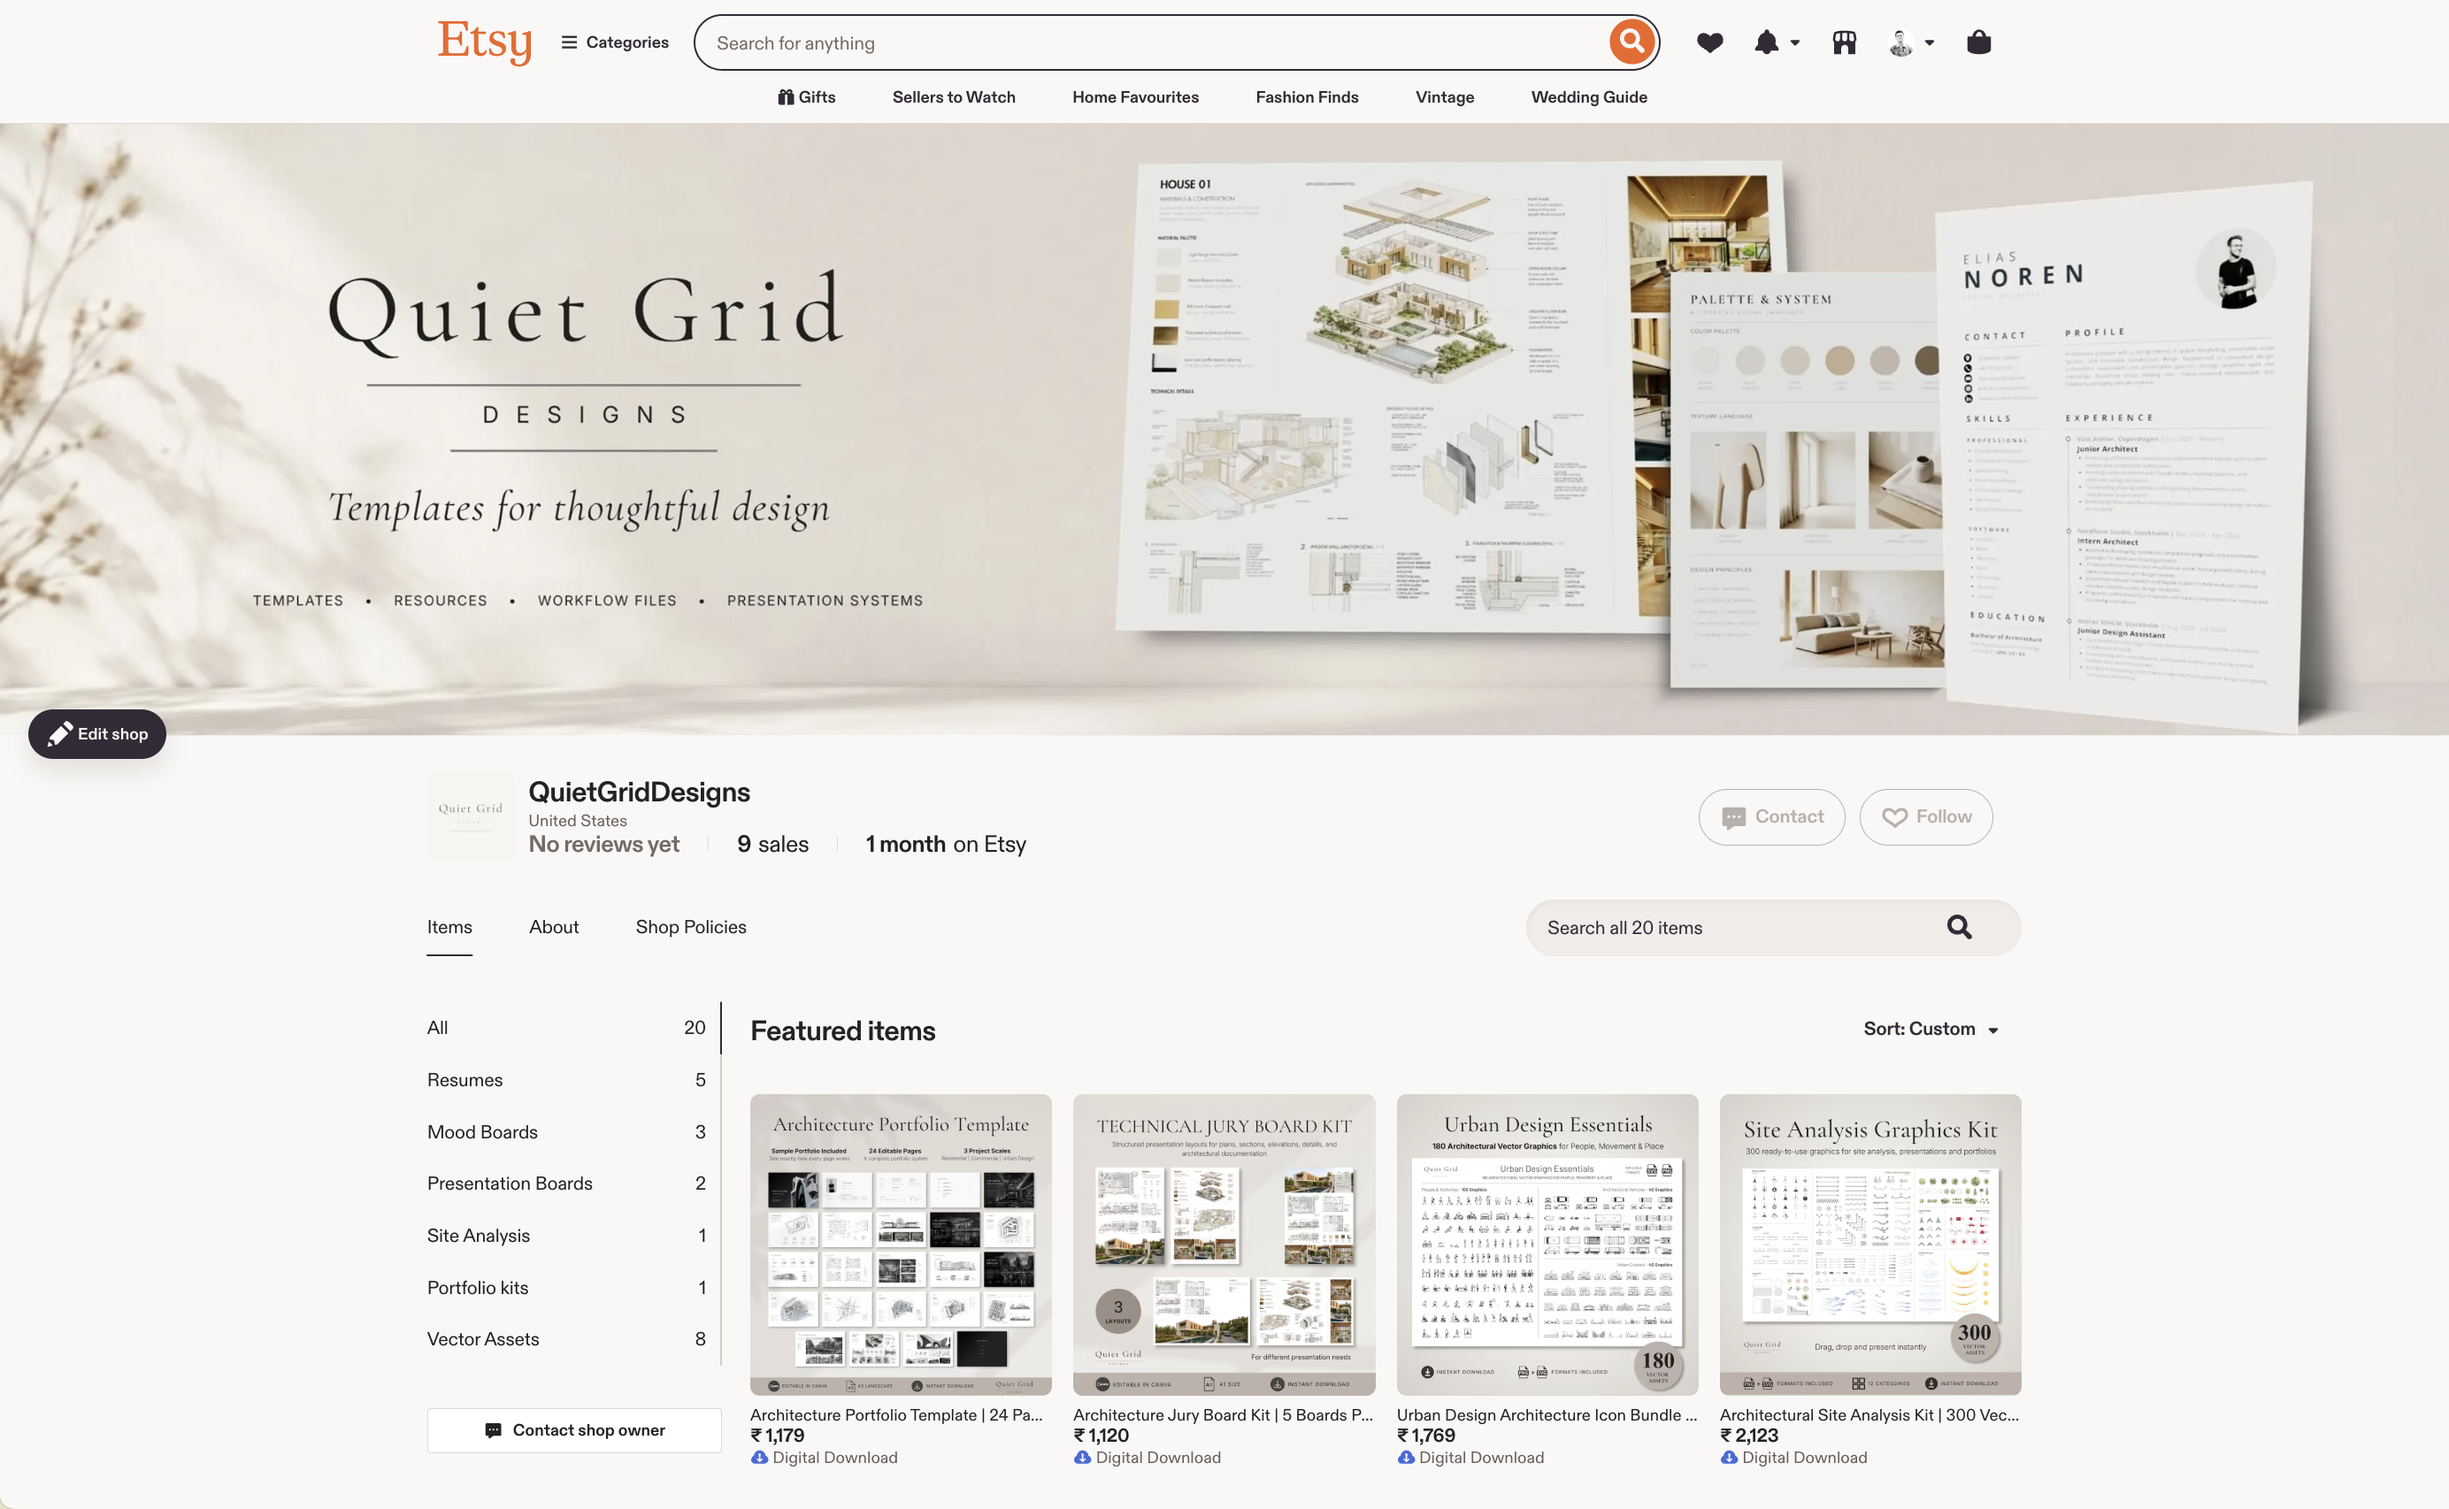
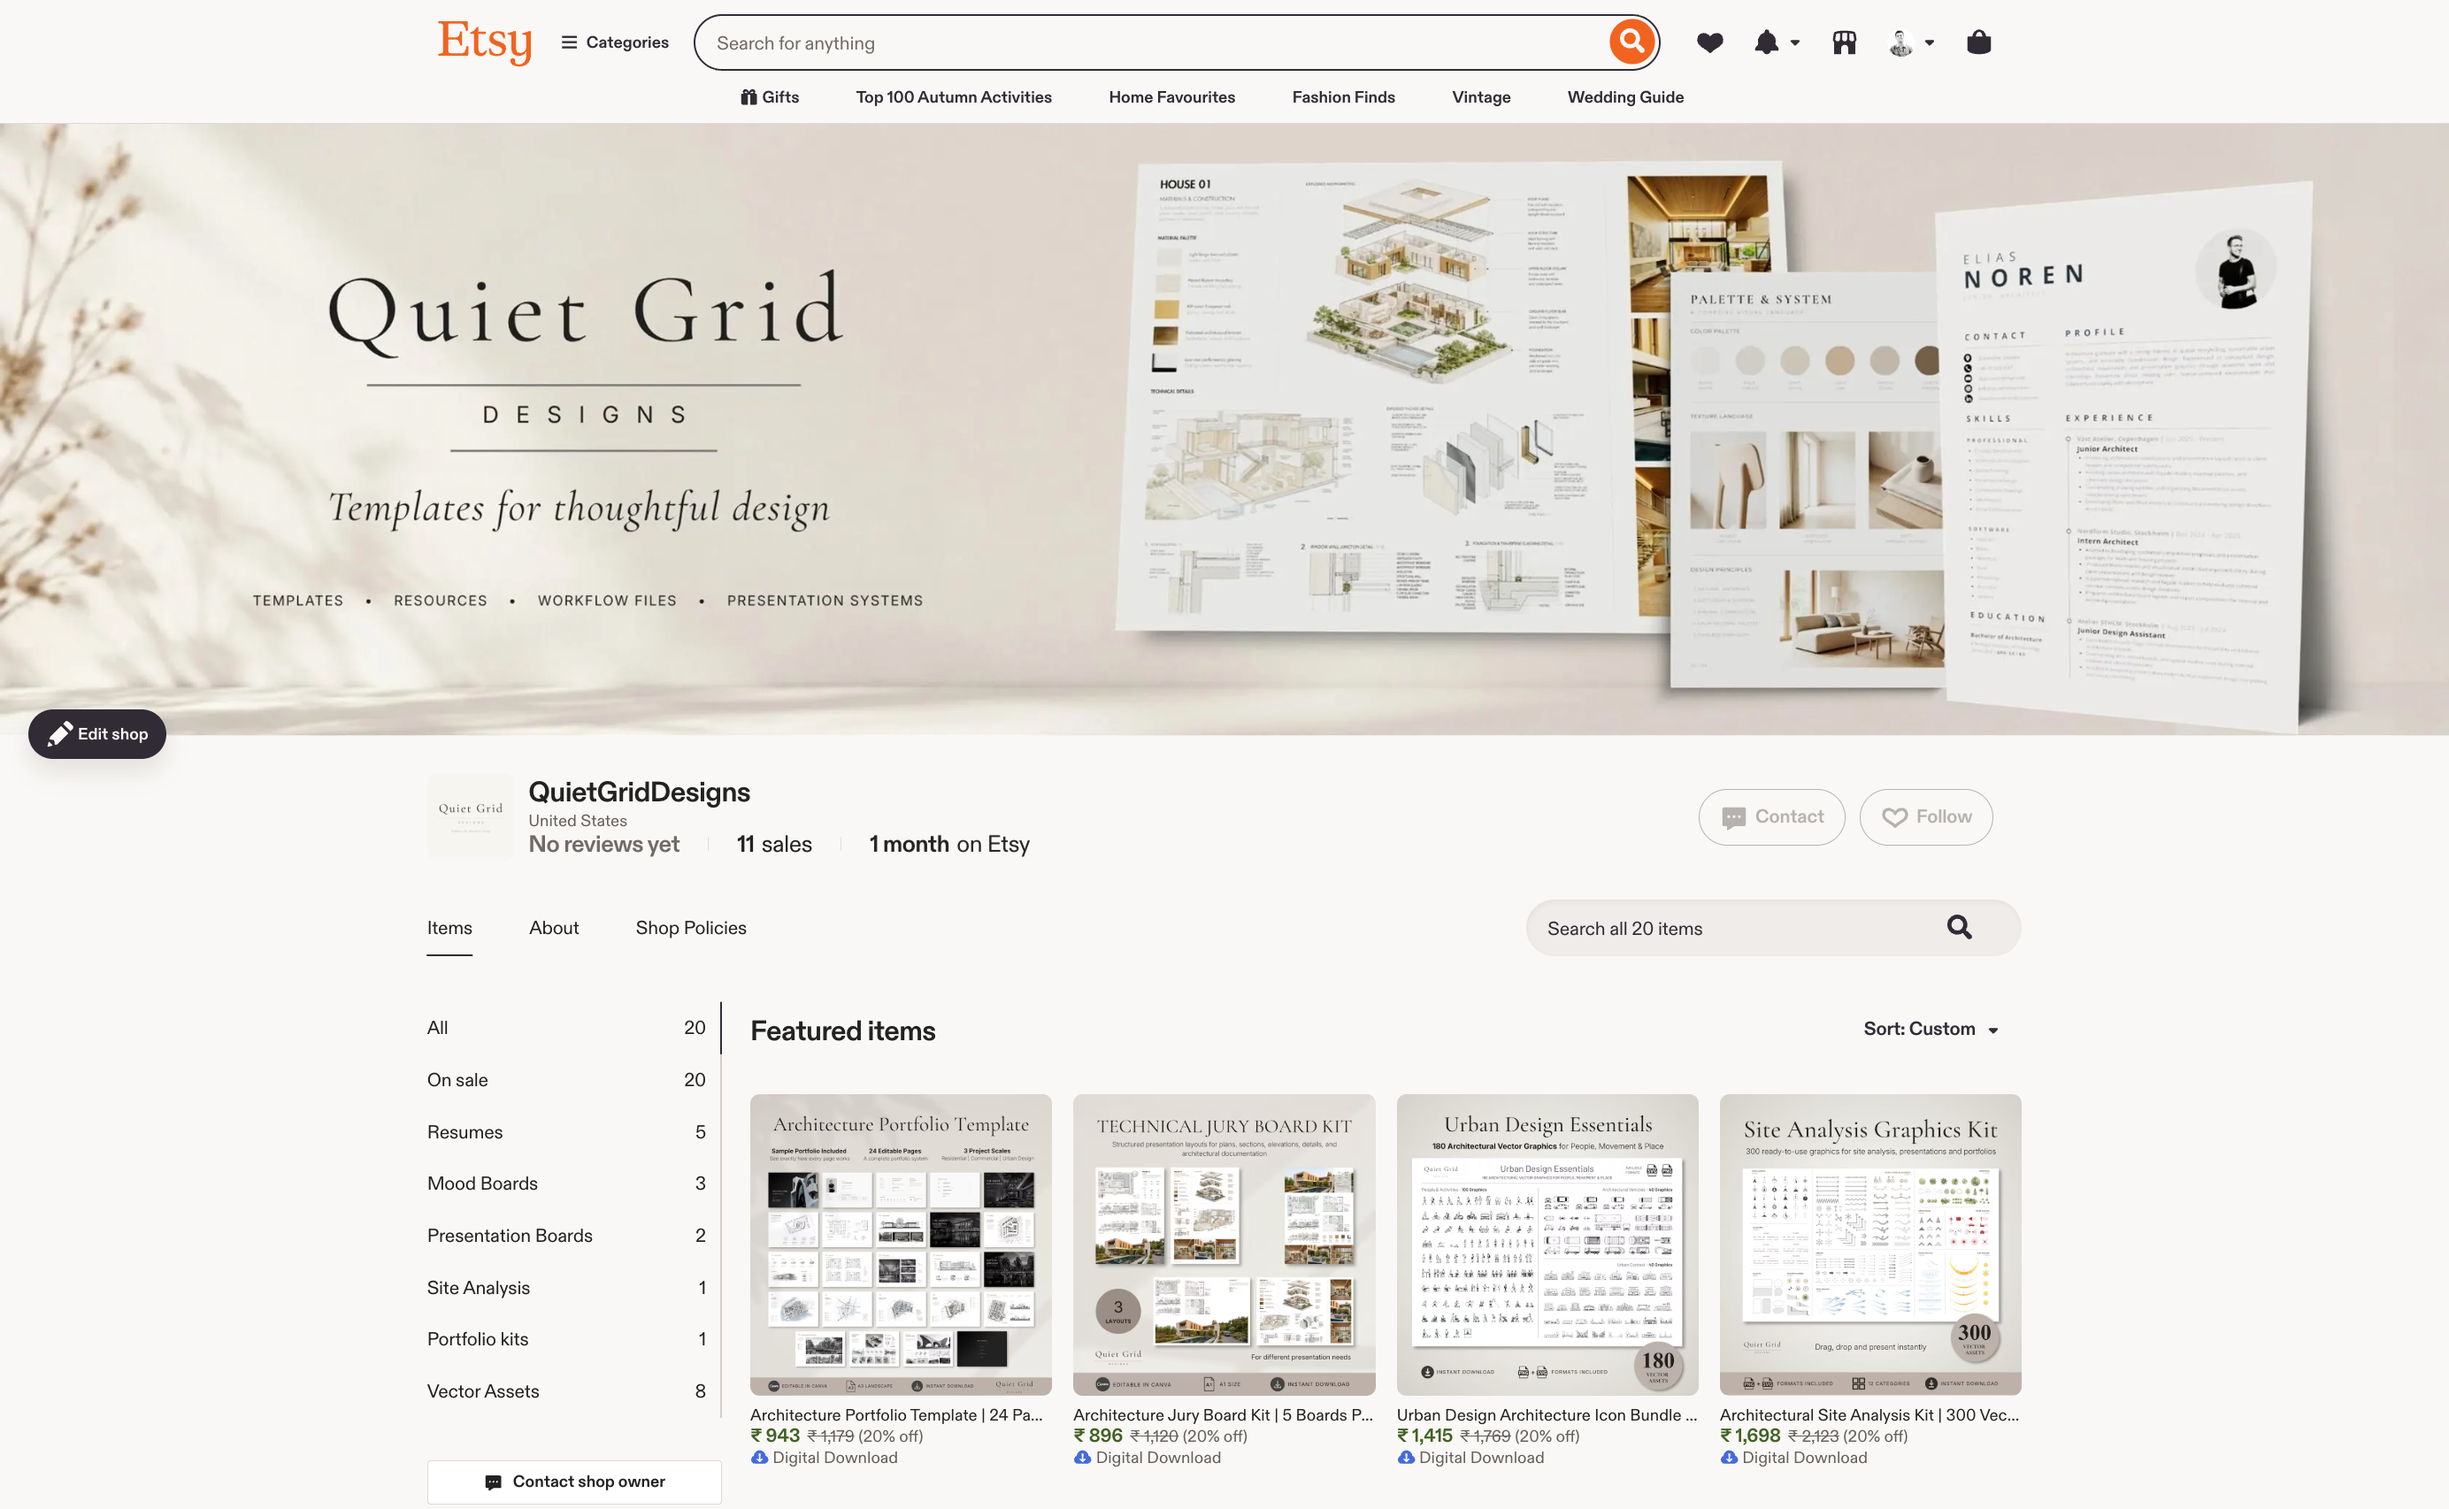
Update Quiet Grid Designs case study

diff --git a/app/work/quiet-grid/page.tsx b/app/work/quiet-grid/page.tsx
@@ -11,18 +11,29 @@ export const metadata: Metadata = {
 
 const proof = [
   ['20', 'products'],
-  ['9', 'orders'],
-  ['₹6.6K', 'early revenue'],
+  ['11', 'orders'],
+  ['₹9.8K', 'early revenue'],
   ['0', 'Etsy Ads'],
 ];
 
-const results = [
-  ['268', 'visits'],
-  ['9', 'orders'],
-  ['3.4%', 'conversion'],
-  ['₹6,579', 'revenue'],
-  ['20', 'products live'],
+const primaryResults = [
+  ['373', 'visits'],
+  ['496', 'listing views'],
+  ['11', 'orders'],
+  ['₹9,817', 'revenue'],
+  ['2.9%', 'conversion'],
+];
+
+const supportingResults = [
+  ['35', 'item favourites'],
   ['0', 'Etsy Ads'],
+];
+
+const researchDecisions = [
+  'Protect validated products before changing everything.',
+  'Let real customer behaviour carry more weight than trend-chasing.',
+  'Broaden Quiet Grid carefully from architecture resources toward useful presentation and handoff resources for designers.',
+  'Test one direction at a time instead of launching many speculative products.',
 ];
 
 const closingSignals = ['20 products shipped', 'Built end-to-end', 'Still building.'];
@@ -146,7 +157,7 @@ export default function QuietGridCaseStudy() {
                 src="/quiet-grid/storefront-full.png"
                 alt="Full Quiet Grid Designs Etsy storefront showing the breadth of its 20-product catalogue"
                 width={2768}
-                height={4777}
+                height={5210}
                 sizes="(max-width: 700px) calc(100vw - 36px), 64vw"
               />
             </div>
@@ -219,8 +230,8 @@ export default function QuietGridCaseStudy() {
               alt="Etsy product-level performance showing views, favourites, orders and revenue by listing"
               caption="Product-level behaviour provided directional evidence for the next catalogue bets."
               className={styles.statsFigure}
-              width={2346}
-              height={1168}
+              width={2336}
+              height={1725}
             />
             <aside className={styles.learningCallout}>
               <span>What I learned</span>
@@ -245,21 +256,24 @@ export default function QuietGridCaseStudy() {
           <div className={styles.resultsComposition}>
             <div className={styles.resultsInterpretation}>
               <p className={styles.resultsQualifier}>Early traction · first month</p>
-              <dl className={styles.resultsStack} aria-label="Quiet Grid results by September 4">
-                {results.map(([value, label]) => <div key={label}><dd>{value}</dd><dt>{label}</dt></div>)}
+              <dl className={styles.resultsStack} aria-label="Quiet Grid primary product funnel through September 11">
+                {primaryResults.map(([value, label]) => <div key={label}><dd>{value}</dd><dt>{label}</dt></div>)}
+              </dl>
+              <dl className={styles.resultsSupporting} aria-label="Quiet Grid supporting signals through September 11">
+                {supportingResults.map(([value, label]) => <div key={label}><dd>{value}</dd><dt>{label}</dt></div>)}
               </dl>
             </div>
             <figure className={`${styles.figure} ${styles.dashboardFigure}`}>
               <div className={styles.dashboardFrame}>
                 <Image
                   src="/quiet-grid/shop-dashboard.png"
-                  alt="Etsy Shop Manager analytics showing visits, orders, conversion, revenue and leading listing performance"
+                  alt="Etsy Shop Manager analytics showing visits, orders, conversion, revenue and shopper behaviour"
                   width={2768}
-                  height={6133}
+                  height={4133}
                   sizes="(max-width: 700px) calc(100vw - 36px), 68vw"
                 />
               </div>
-              <figcaption>Etsy Shop Manager, August 6–September 4. Actual shop performance; 0 Etsy Ads during this period.</figcaption>
+              <figcaption>Etsy Shop Manager, August 12–September 11. Actual shop performance; 0 Etsy Ads during this period.</figcaption>
             </figure>
           </div>
           <div className={styles.resultsCopy}>
@@ -268,8 +282,23 @@ export default function QuietGridCaseStudy() {
           </div>
         </section>
 
+        <section className={`${styles.textSection} ${styles.twoColumn} shell`}>
+          <div className={styles.sectionMarker}>09 / Evidence-led product strategy</div>
+          <div className={styles.readingColumn}>
+            <p className={styles.researchSequence}>Build → Sell → Observe → Research → Decide</p>
+            <h2>The business became the research lab</h2>
+            <p>Once real buyers started behaving differently across products, I stopped treating the catalogue as a collection of things I had made and started treating it as evidence. I combined transaction and listing-performance data with AI-assisted competitor and market research to investigate pricing, demand, positioning and adjacent opportunities at greater scale.</p>
+            <p>The goal was not more AI-generated ideas, but better decisions: separate observed evidence from inference and hypotheses, protect what was already working, and prioritise the next product based on real signals rather than instinct alone.</p>
+            <ol className={styles.researchDecisions}>
+              {researchDecisions.map((decision, index) => (
+                <li key={decision}><span>{String(index + 1).padStart(2, '0')}</span><p>{decision}</p></li>
+              ))}
+            </ol>
+          </div>
+        </section>
+
         <section className={`${styles.closingSection} shell`}>
-          <div className={styles.sectionMarker}>09 / What changed</div>
+          <div className={styles.sectionMarker}>10 / What changed</div>
           <div className={styles.closingCopy}>
             <h2>A real feedback loop</h2>
             <p>Building Quiet Grid made the feedback loop real. Research could suggest an opportunity, but quality determined what shipped. Small behavioural signals could shape the roadmap without pretending weak evidence was certainty.</p>

diff --git a/app/work/quiet-grid/case-study.module.css b/app/work/quiet-grid/case-study.module.css
@@ -490,16 +490,56 @@
 }
 
 .resultsStack > div {
-  padding: clamp(20px, 2.4vw, 34px) 0;
+  display: grid;
+  grid-template-columns: minmax(0, 1fr) auto;
+  gap: 18px;
+  align-items: baseline;
+  padding: clamp(16px, 1.7vw, 24px) 0;
   border-bottom: 1px solid var(--line);
 }
 
 .resultsStack dd {
-  margin-bottom: 6px;
-  font-size: clamp(2.75rem, 4.6vw, 5rem);
+  margin: 0;
+  font-size: clamp(2.4rem, 3.7vw, 4.15rem);
   font-weight: 500;
   letter-spacing: -.055em;
   line-height: .9;
+}
+
+.resultsStack dt {
+  text-align: right;
+}
+
+.resultsSupporting {
+  display: grid;
+  grid-template-columns: repeat(2, minmax(0, 1fr));
+  margin: 34px 0 0;
+  padding: 0;
+  border-top: 1px solid var(--ink);
+  border-bottom: 1px solid var(--line);
+}
+
+.resultsSupporting > div {
+  padding: 18px 14px 19px 0;
+}
+
+.resultsSupporting > div + div {
+  padding-left: 14px;
+  border-left: 1px solid var(--line);
+}
+
+.resultsSupporting dd {
+  margin: 0 0 5px;
+  font-size: clamp(1.8rem, 2.4vw, 2.5rem);
+  font-weight: 600;
+  letter-spacing: -.045em;
+  line-height: 1;
+}
+
+.resultsSupporting dt {
+  color: var(--muted);
+  font-size: .76rem;
+  line-height: 1.4;
 }
 
 .dashboardFigure {
@@ -507,17 +547,14 @@
 }
 
 .dashboardFrame {
-  height: clamp(760px, 72vw, 1040px);
-  overflow: hidden;
   background: white;
   border: 1px solid var(--line);
 }
 
 .dashboardFrame img {
+  display: block;
   width: 100%;
-  height: 100%;
-  object-fit: cover;
-  object-position: top center;
+  height: auto;
   background: white;
   border: 0;
 }
@@ -532,6 +569,43 @@
   font-size: clamp(1.32rem, 1.65vw, 1.65rem);
   line-height: 1.5;
   letter-spacing: -.02em;
+}
+
+.readingColumn .researchSequence {
+  margin: 0 0 38px;
+  color: var(--blue);
+  font-size: .79rem;
+  font-weight: 700;
+  letter-spacing: .08em;
+  line-height: 1.6;
+  text-transform: uppercase;
+}
+
+.researchDecisions {
+  margin: clamp(48px, 6vw, 76px) 0 0;
+  padding: 0;
+  border-top: 1px solid var(--ink);
+  list-style: none;
+}
+
+.researchDecisions li {
+  display: grid;
+  grid-template-columns: 38px minmax(0, 1fr);
+  gap: 18px;
+  padding: 18px 0;
+  border-bottom: 1px solid var(--line);
+}
+
+.researchDecisions li > span {
+  padding-top: 3px;
+  color: var(--blue);
+  font-size: .76rem;
+  font-weight: 700;
+  letter-spacing: .07em;
+}
+
+.researchDecisions li > p {
+  margin: 0;
 }
 
 .closingSection {
@@ -714,12 +788,10 @@
   .resultsTitle { margin: 0 0 64px; }
   .resultsInterpretation { position: static; }
   .resultsQualifier { margin-bottom: 28px; }
-  .resultsStack { display: grid; grid-template-columns: repeat(2, 1fr); }
-  .resultsStack > div { padding: 22px 10px 22px 0; }
-  .resultsStack > div:nth-child(even) { padding-left: 14px; border-left: 1px solid var(--line); }
+  .resultsStack > div { padding: 18px 0; }
   .resultsStack dd { font-size: clamp(2.25rem, 11vw, 3.3rem); }
+  .resultsSupporting { margin-top: 30px; }
   .dashboardFigure { margin-top: 66px; }
-  .dashboardFrame { height: 620px; }
   .resultsCopy { margin-top: 68px; }
   .closingCopy { margin-top: 0; }
   .finalQuote { margin: 78px 0 86px; font-size: clamp(3rem, 14vw, 4.8rem); }

diff --git a/app/page.tsx b/app/page.tsx
@@ -26,8 +26,8 @@ const projects: Project[] = [
       'Built and launched a live product business for architecture and design professionals — owning research, product, design, pricing and organic GTM.',
     facts: [
       { label: '', value: '20 products' },
-      { label: '', value: '9 orders' },
-      { label: '', value: '₹6.6K early revenue' },
+      { label: '', value: '11 orders' },
+      { label: '', value: '₹9.8K early revenue' },
       { label: '', value: '0 Etsy Ads' },
     ],
     note: 'Early traction · first month · currently active',
